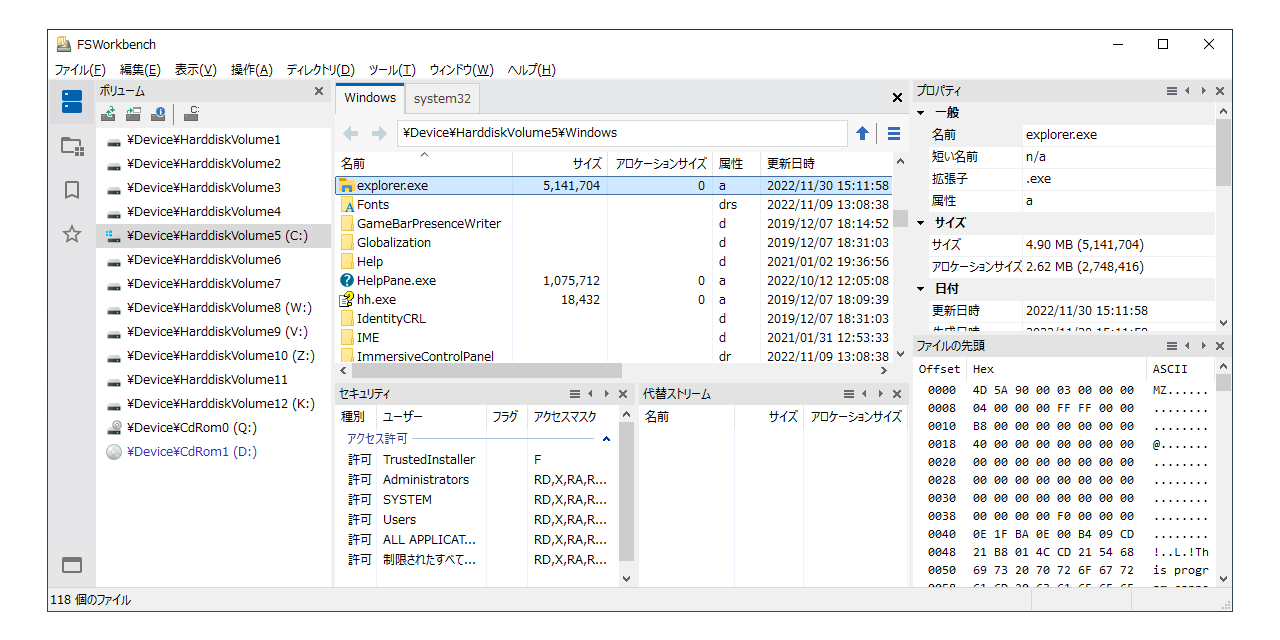
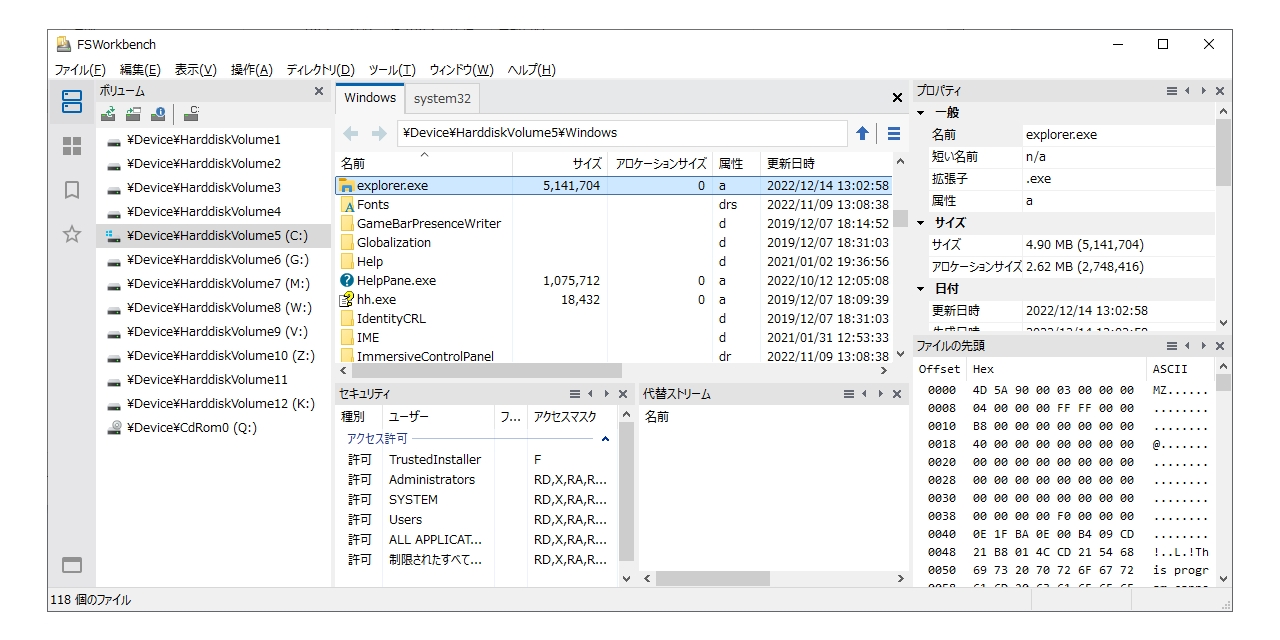
Build 4.0.735.0 Preview Release

diff --git a/README.md b/README.md
@@ -14,10 +14,11 @@ Version 4.0では、メインフレームウィンドウを旧来のMDIスタイ
 
 **NOTICE:** FSWorkbench is not open source. You will find here the builds only. 
 
-### 4.0.733.5 Preview
+### 4.0.735.0 Preview
 
-- BugFix
-- 一部リソースを日本語化しました。
+- ナビゲーションペインのアイコンを変更しました。
+- その他、細かいバグ修正。
+- ソースコードの整理。
 
 ### 実行環境
 
